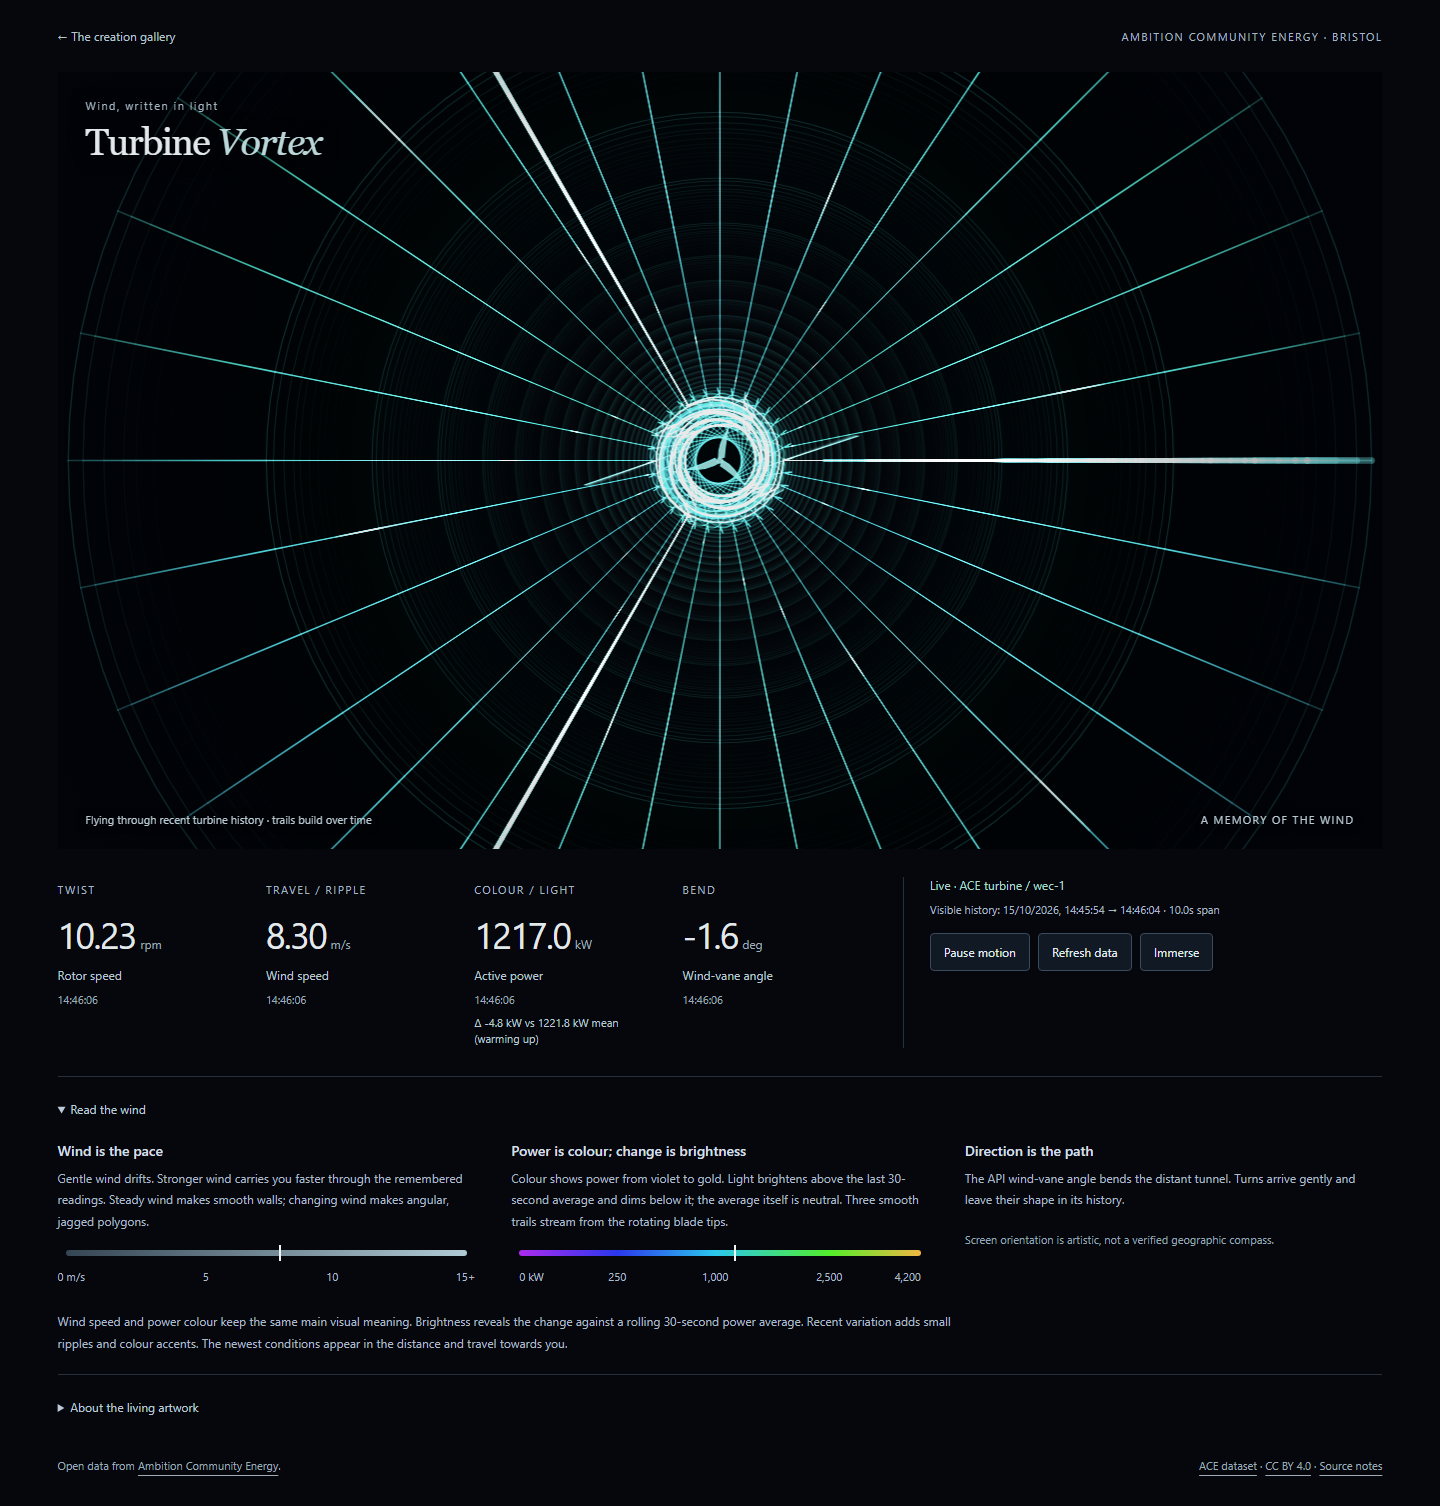
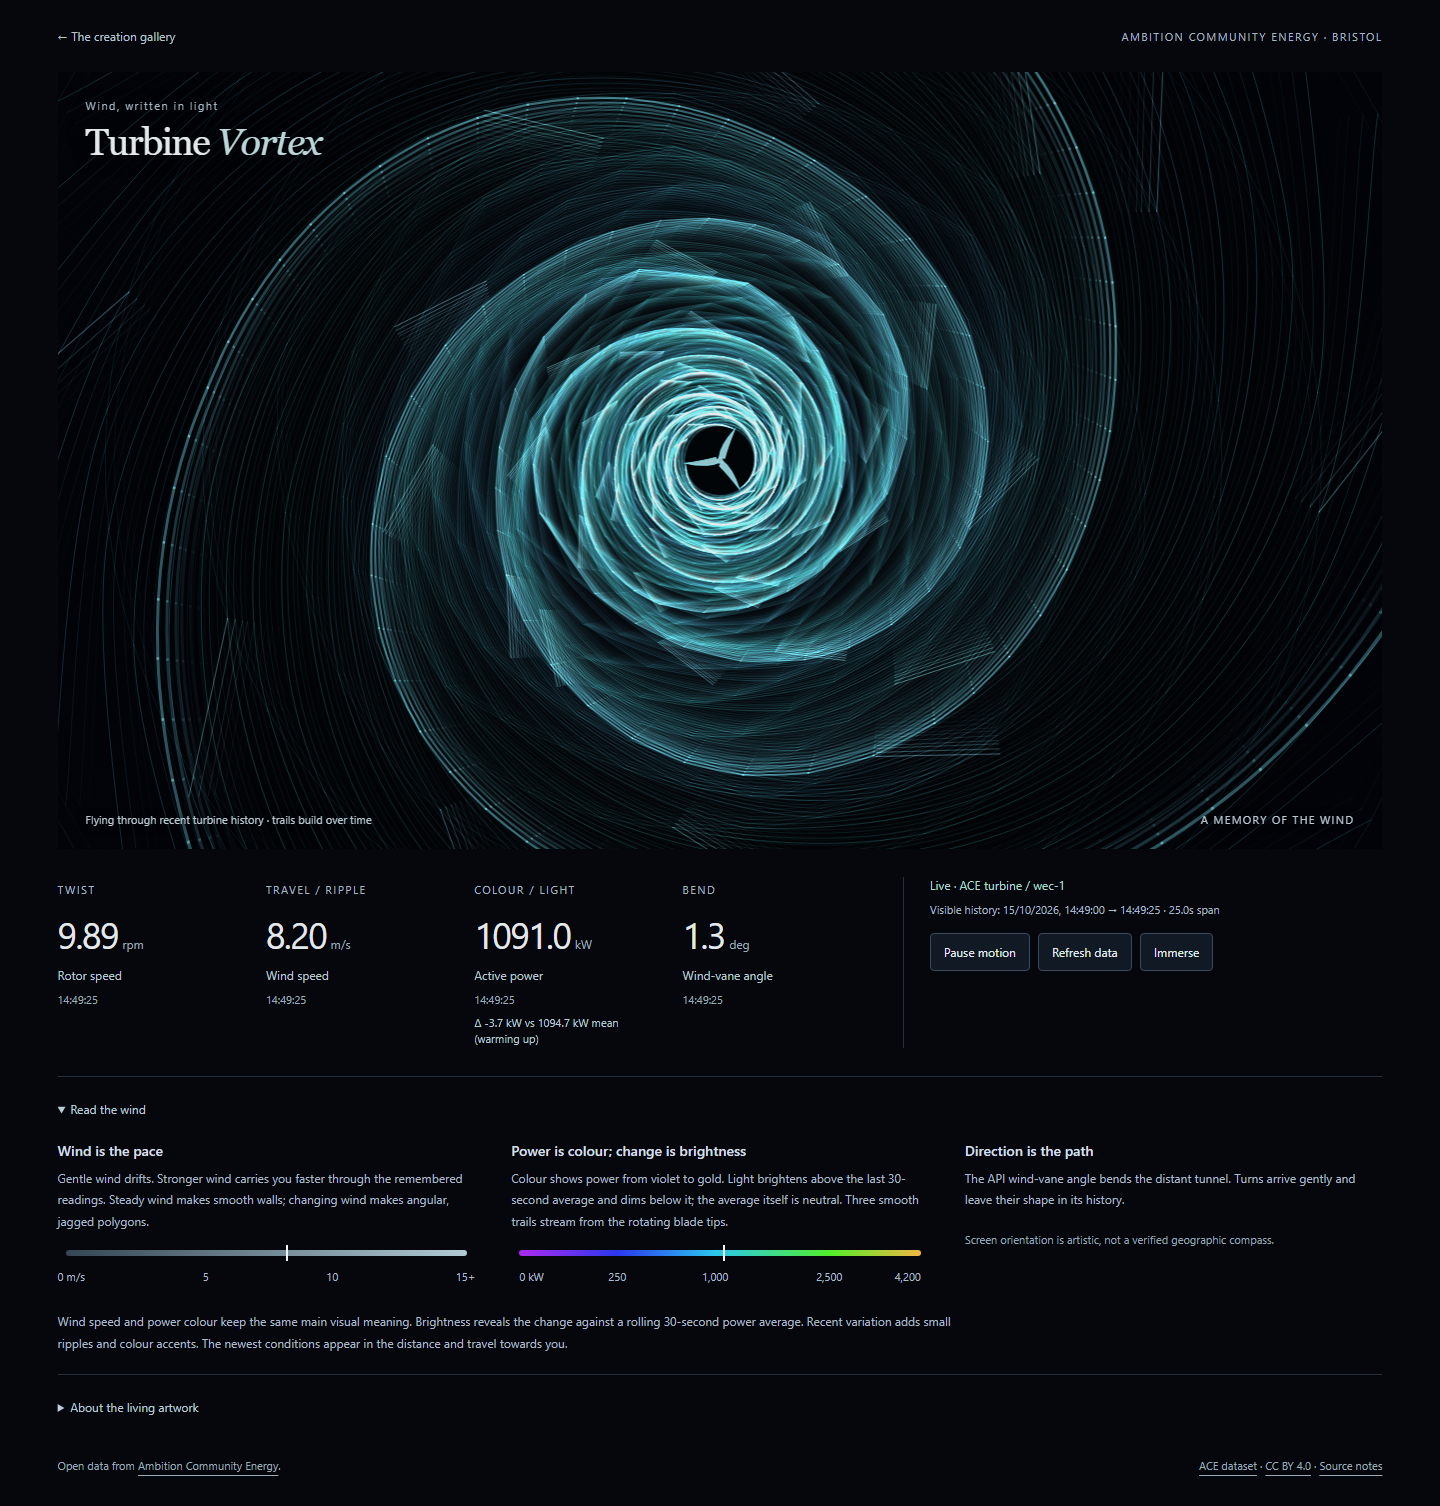
Expand depth perspective to separate distant vortex turns

diff --git a/site/creations/turbine-vortex/README.md b/site/creations/turbine-vortex/README.md
@@ -61,3 +61,5 @@ When readings are unavailable, stale, or not yet received, the canvas shows a st
 The rotor is anchored at the exact canvas centre at every vane angle. The wake's bend uses a depth envelope `4d(1-d)` with `d=z/28`, so displacement is zero at the rotor and viewer. Horizontal displacement uses `sin(angle)` and vertical displacement uses `1-cos(angle)`; a neutral zero-degree reading produces no bend on either axis. These are artistic screen coordinates, not compass directions.
 
 Startup layers form a straight, smooth centred tunnel: they retain the first live wind/power colours but start with zero bend, roughness and additional depth twist. New live layers introduce rotor rotation, depth twist, vane bend and wind texture from the blade tips as the initial straight layers travel out of view. Startup geometry is a visual scaffold, not recorded pre-session history.
+
+Perspective expands radial spacing by 2.5 relative to the original reciprocal-depth projection while preserving the rotor radius: `radius = unit × (1/28.2 + 2.5 × (1/(z+0.2) - 1/28.2))`. This separates distant turns without changing RPM, sampling or emission timing. Sections reach the screen edges sooner, so the visible data-time span can be shorter; it is reported from the retained layers.
